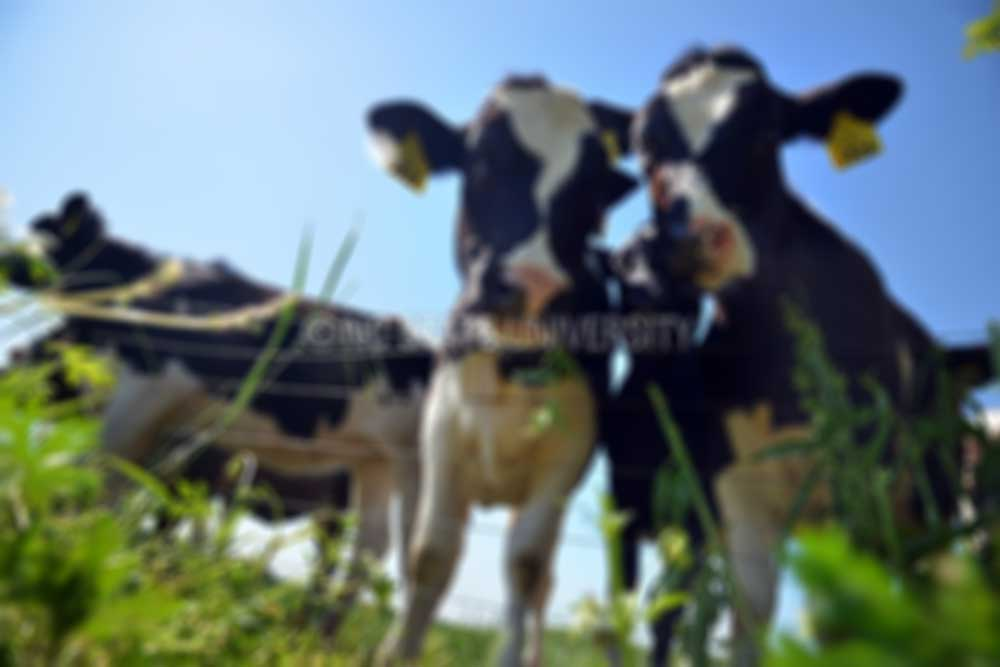
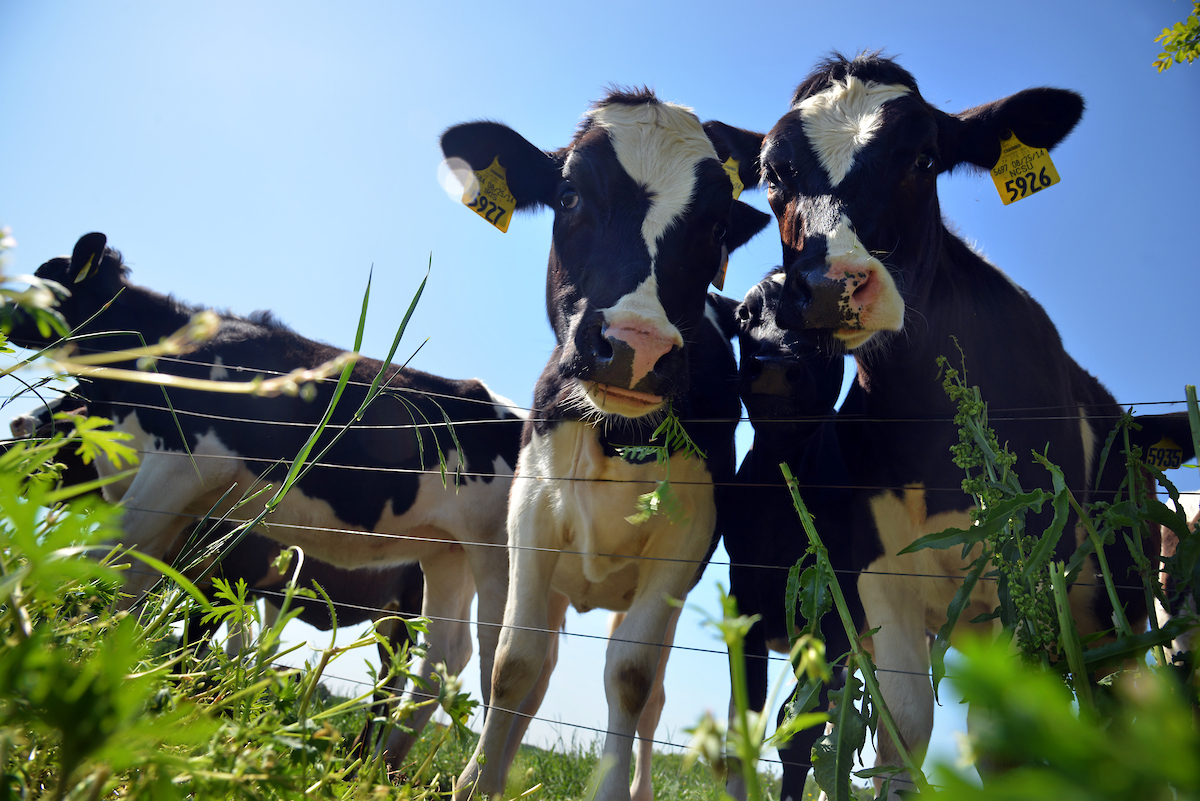
Add lesson 1 dev version of CSS and change background image in Lesson 1 to no watermark

diff --git a/development/css/lesson1-dev.css b/development/css/lesson1-dev.css
@@ -1,0 +1,346 @@
+/* Begin Smart Sparrow Styles */
+body {
+  font-family: 'Arial', sans-serif
+}
+
+.headerContainer {
+  background: #cc0000
+}
+
+@media (min-width:701px) {
+  .headerContainer .defaultView:before {
+    content: '';
+    display: block;
+    width: 145px;
+    height: 37px;
+    border-right: 1px solid #fff;
+    margin-right: 14px;
+    background: url('../assets/ncsu-logo.png') no-repeat center;
+    background-size: 152px 45px
+  }
+}
+
+.headerContainer .lessonTitle {
+  font-style: italic;
+  font-weight: 600;
+  color: #fff
+}
+
+.headerContainer .lessonTitle:before {
+  content: 'Environmental Monitoring in the Dairy Industry';
+  display: block;
+  font-style: normal
+}
+
+@media (max-width:900px) {
+  .headerContainer .lessonTitle:before {
+    font-size: 14px
+  }
+}
+
+@media (max-width:700px) {
+  .headerContainer .lessonTitle:before {
+    display: none
+  }
+}
+
+.theme-header-beagle__toggle,
+.theme-header-profile__toggle {
+  background: none
+}
+
+.theme-header-score,
+.theme-header-beagle__label,
+.theme-header-profile__label {
+  font-weight: 600;
+  color: rgba(255, 255, 255, 0.9)
+}
+
+@media (max-width:700px) {
+  .theme-header-score__label {
+    display: none
+  }
+}
+
+.theme-header-score__icon {
+  background: url('../assets/icons/icon-star.svg')
+}
+
+.theme-header-beagle__icon {
+  background: url('../assets/icons/icon-apps.svg')
+}
+
+.theme-header-profile__icon {
+  background: url('../assets/icons/icon-account.svg')
+}
+
+.theme-history .history-element-selected .history-element__screenName {
+  color: #cc0000
+}
+
+#stage-stage .number-input input,
+#stage-stage .short-text-input input {
+  font-family: 'Arial', sans-serif !important
+}
+
+#stage-stage .number-input input:focus,
+#stage-stage .short-text-input input:focus {
+  border-color: #cc0000 !important
+}
+
+#stage-stage .number-input input:disabled,
+#stage-stage .short-text-input input:disabled {
+  background: #ebebe4 !important;
+  cursor: not-allowed
+}
+
+#stage-stage .long-text-input textarea {
+  font-family: 'Arial', sans-serif !important
+}
+
+#stage-stage .long-text-input textarea:focus {
+  border-color: #cc0000 !important
+}
+
+#stage-stage .long-text-input textarea:disabled {
+  background: #ebebe4 !important;
+  cursor: not-allowed
+}
+
+#stage-stage .dropdown-input select,
+#stage-stage .boolean-input select {
+  font-family: 'Arial', sans-serif !important
+}
+
+#stage-stage .dropdown-input select:focus,
+#stage-stage .boolean-input select:focus {
+  border-color: #cc0000 !important
+}
+
+#stage-stage .dropdown-input select:disabled,
+#stage-stage .boolean-input select:disabled {
+  background: #ebebe4 !important;
+  cursor: not-allowed
+}
+
+#stage-stage .slider-input .ui-slider-handle {
+  background: #cc0000
+}
+
+#stage-stage .slider-input .ui-slider-handle:focus {
+  box-shadow: 0 0 0 4px rgba(204, 0, 0, 0.4)
+}
+
+#stage-stage .mcq-input input:checked + label::before {
+  box-shadow: inset 0 0 0 20px #cc0000
+}
+
+#stage-stage .mcq-input input:focus + label::before {
+  box-shadow: inset 0 0 0 2px #cc0000, 0 0 0 4px rgba(204, 0, 0, 0.4)
+}
+
+#stage-stage .mcq-input input:checked:focus + label::before {
+  box-shadow: inset 0 0 0 20px #cc0000, 0 0 0 4px rgba(204, 0, 0, 0.4)
+}
+
+#stage-stage .mcq-input input:disabled + label::before {
+  background: #ebebe4 !important;
+  cursor: not-allowed
+}
+
+.modal-footer button[name="OK"] {
+  background-color: #cc0000 !important
+}
+
+.modal-footer button[name="OK"]:hover {
+  background-color: #900 !important
+}
+
+.modal-footer button[name="OK"]:focus {
+  box-shadow: 0 0 0 4px rgba(204, 0, 0, 0.3)
+}
+
+.modal-footer button[name="CANCEL"] {
+  color: #cc0000 !important
+}
+
+.modal-footer button[name="CANCEL"]:hover {
+  background-color: rgba(204, 0, 0, 0.1) !important
+}
+
+.modal-footer button[name="CANCEL"]:focus {
+  box-shadow: 0 0 0 4px rgba(204, 0, 0, 0.3)
+}
+
+.info-icon:not(.no-restyle) {
+  background-color: #cc0000 !important
+}
+
+.info-icon:not(.no-restyle).no-close .close {
+  display: none
+}
+
+.background {
+  background-color: #f2f2f2
+}
+
+.stageContainer .content {
+  border-color: #ccc
+}
+
+.stageContainer .content span,
+.stageContainer .content strong,
+.stageContainer .content em {
+  font-family: 'Arial', sans-serif !important
+}
+
+.checkContainer {
+  border-color: #ccc
+}
+
+.checkContainer .checkBtn,
+.checkContainer .closeFeedbackBtn {
+  background: #cc0000 !important
+}
+
+.checkContainer .checkBtn:hover,
+.checkContainer .closeFeedbackBtn:hover,
+.checkContainer .checkBtn:focus,
+.checkContainer .closeFeedbackBtn:focus,
+.checkContainer .checkBtn:active,
+.checkContainer .closeFeedbackBtn:active {
+  background: #900 !important
+}
+
+.checkContainer .checkBtn:focus,
+.checkContainer .closeFeedbackBtn:focus {
+  box-shadow: 0 0 0 4px rgba(204, 0, 0, 0.3)
+}
+
+.feedbackContainer .toggleFeedbackBtn .icon::before {
+  background: url('../assets/icons/icon-feedback.svg')
+}
+
+.no-tray .checkContainer {
+  display: none
+}
+
+.speech-bubble-left,
+.speech-bubble-right {
+  padding: 25px !important;
+  box-sizing: content-box;
+  overflow: visible !important
+}
+
+.speech-bubble-left:before,
+.speech-bubble-right:before {
+  content: '';
+  position: absolute;
+  top: 25px;
+  width: 30px;
+  height: 30px;
+  -webkit-transform-origin: center;
+  transform-origin: center;
+  background: inherit;
+  border-left: inherit;
+  border-top: inherit
+}
+
+.speech-bubble-left:after,
+.speech-bubble-right:after {
+  content: '';
+  position: absolute;
+  top: 0;
+  width: 25px;
+  height: 100%;
+  background: inherit
+}
+
+@media (max-width:900px) {
+
+  .speech-bubble-left:before,
+  .speech-bubble-right:before,
+  .speech-bubble-left:after,
+  .speech-bubble-right:after {
+    display: none
+  }
+}
+
+.speech-bubble-left:before {
+  left: 0;
+  -webkit-transform: translateX(-50%) rotate(-45deg) skew(10deg, 10deg);
+  transform: translateX(-50%) rotate(-45deg) skew(10deg, 10deg)
+}
+
+.speech-bubble-left:after {
+  left: 0
+}
+
+.speech-bubble-right:before {
+  right: 0;
+  -webkit-transform: translateX(50%) rotate(135deg) skew(10deg, 10deg);
+  transform: translateX(50%) rotate(135deg) skew(10deg, 10deg)
+}
+
+.speech-bubble-right:after {
+  right: 0
+}
+
+/* End Smart Sparrow Styles */
+
+/* Begin Custom Styles (change for Smart Sparrow code styles only) */
+.speech-color-gray {
+/*
+  background-color: rgba(242,242,242,1.0) !important;
+  border: 1px solid rgba(102,102,102,.2) !important;
+*/
+    border-color: rgba(242,242,242,.4) !important;
+    background-color: #e0e0e0 !important;
+    border-width: 1px !important;
+    border-style: solid !important;
+}
+
+.stageContainer .content {
+  overflow: hidden;
+  box-shadow: 0 1px 1px rgba(146, 160, 160, .2);
+}
+
+/* See if will set CMS background image */
+
+/* it will */
+/*
+.background {
+  background-image: url(https://ncstatestevensonlab.github.io/development/img/cow-background-img-for-cover.jpg);
+  background-color: transparent !important;
+}
+*/
+
+
+/* Set Cover Image */
+.cover .background {
+  background-image: url(https://ncstatestevensonlab.github.io/development/img/cow-background-img-for-cover.jpg);
+  background-size: cover;
+}
+
+.cover .background:before {
+    content: '';
+    background: rgba(0, 0, 0, 0.4);
+    position: absolute;
+    top: 68px;
+    right: 0;
+    bottom: 0;
+    left: 0;
+}
+
+.lesson-title-text {
+  font-size: 60px;
+  text-shadow: 2px 3px 3px rgba(0,0,0,0.3);
+}
+
+.lesson-subtitle-text {
+  text-shadow: 2px 3px 3px rgba(0,0,0,0.3);
+}
+
+.stage-glass-panel {
+  background: rgba(255,255,255,.4) !important;
+}
